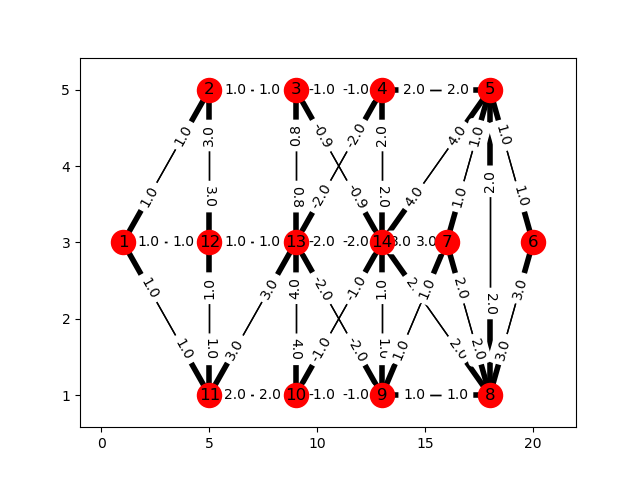
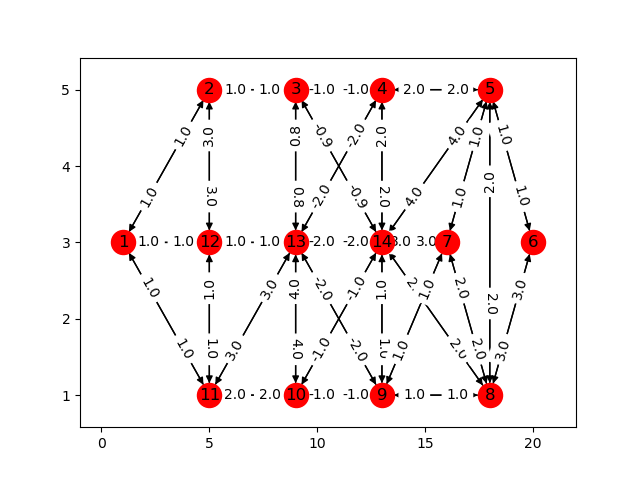
add some test examples

diff --git a/week_8/w_msr.py b/week_8/w_msr.py
@@ -16,36 +16,51 @@ def sign(num):
 
 
 def create_graph_by_adjacency_matrix(from_file, n, left_side):
-    
+
+    graph = nx.DiGraph()
+
+    for i in range(1, n + 1):
+        graph.add_node(i, value=[])
+
     matrix = np.identity(n)
     i = 0
     j = 0
-    
+    flag = True
     with open(from_file) as f:
         for line in f.readlines():
             tmp_input = line.strip('\n').split(' ')
             j = 0
+            print(tmp_input)
             for tmp in tmp_input:
-                matrix[i][j] = int(tmp)
+                if flag:
+                    graph.node[j + 1]['value'].append(float(tmp))
+                else:
+                    matrix[i][j] = int(tmp)
                 j += 1
-            i += 1
+            if not flag:
+                i += 1
+            flag = False
 
-    import robustness_checker
-    r,s = robustness_checker.determine_robustness_multi_process(matrix)
+    # import robustness_checker
+    # r,s = robustness_checker.determine_robustness_multi_process(matrix)
 
-    print(r, s)
+    # print(r, s)
 
-    
-    graph = nx.DiGraph()
-    for i in range(1, n + 1):
-        graph.add_node(i)
     for i in range(n):
         for j in range(n):
             if matrix[i][j] == 1:
-                graph.add_edge(i + 1, j + 1)
+                if i + 1 in left_side:
+                    if j + 1 in left_side:
+                        sign = 1
+                    else:
+                        sign = -1
+            else:
+                sign = 0
 
-    print(graph.nodes(data=True))
-    print(graph.edges(data=True))
+
+            if not graph.has_edge(i + 1, j + 1):
+                graph.add_edge(i + 1, j + 1, sign=sign)  # True 代表正， False代表负
+
     return graph
 
 
@@ -83,7 +98,7 @@ def get_limited_neighbors(node_no, graph, neighbors, time_step, cur_value, F):
     index = 0
     index_end = len(neighbor_values) - 1
     while index < F:
-        #if abs(neighbor_values[index_end]['value']) > abs(cur_value):
+        # if abs(neighbor_values[index_end]['value']) > abs(cur_value):
         if neighbor_values[index_end]['value'] > cur_value:
             index_end -= 1
             index += 1
@@ -169,7 +184,7 @@ def draw_graph(fg, name):
     nx.draw_networkx_edges(fg, pos)
     nx.draw_networkx_labels(fg, pos)
     nx.draw_networkx_edge_labels(
-        fg, pos, edge_labels=nx.get_edge_attributes(fg, 'weight'), label_pos=0.3)
+        fg, pos, edge_labels=nx.get_edge_attributes(fg, 'sign'), label_pos=0.3)
     plt.savefig("./pngs/graph_" + name + ".png")
     plt.show()
 
@@ -177,19 +192,51 @@ def draw_graph(fg, name):
 """
 领接矩阵每一行绝对值相加等于1，使得|A|是一个stochastic matrix
 """
+
+
 def w_msr():
-    graph = nx.from_numpy_matrix()
+    graph = create_graph_by_adjacency_matrix(
+        "./data/data_2_robust_7_7_nodes.in", 14, left_side=[1, 2, 12, 11, 3, 13, 10])
+
+    draw_graph(graph, "2_robust_7_7_nodes")
+    print(graph.edges(data=True))
+    for time_step in range(1000):
+        for i in graph.nodes():
+            # if i == 4:
+            #     if time_step == 1:
+            #         graph.node[i]['value'].append(graph.node[i]['value'][time_step] - 4)
+            #     else:
+            #         graph.node[i]['value'].append(graph.node[i]['value'][time_step] + 0.01)
+            #     continue
+            current_value = graph.node[i]['value'][time_step]
+            in_edges = graph.in_edges(i)
+
+            # print("in_edges:", in_edges)
+
+            in_neighbors = get_in_neighbors(i, in_edges)
+            delta = 0.0
+            weight = 1.0 / len(in_neighbors)
+            # print("neighbors:", in_neighbors)
+            for j in in_neighbors:
+                current_neighbor_value = graph.node[j]['value'][time_step]
+                sgn = graph[j][i]['sign']
+                print("sgn:", sgn)
+                delta += weight * (current_neighbor_value *
+                                   sign(sgn) - current_value)
+            final_result = current_value + 0.01 * delta
+            graph.node[i]['value'].append(final_result)
+
+    plt.xlabel("time-step")
+    plt.ylabel("values")
+
+    # print("shape" + str(len(graph.node[]['value'])))
+
+    x_axis = range(1001)
+    for i in graph.nodes():
+        plt.plot(x_axis, graph.node[i]['value'])
+    plt.savefig("./pngs/w_msr_2_robust_7_7_nodes.png")
+    plt.show()
+
 
 if __name__ == '__main__':
-    graph = create_graph_by_adjacency_matrix("./data/data_4_robust_7_7_nodes.in", 14, left_side=[0, 1,11,10,2,12,9])
-    # graph = nx.from_numpy_matrix(matrix)
-    # print(graph.edges(data=True))
-    # print(type(graph))
-    # draw_graph(graph, "3_robust_7_7_nodes")
-
-
-
-
-
-
-
+    w_msr()

diff --git a/week_7/resilient_bipartite_consensus.py b/week_7/resilient_bipartite_consensus.py
@@ -236,7 +236,7 @@ if __name__ == '__main__':
                                   fig_name="resilient_bipartite_consensus",
                                   malicious_node=1,
                                   attack_mode=0)
-    # modulus_consensus(data_path="./data/data_balanced_7_7_nodes.in",
-    #                   fig_path="./pngs",
-    #                   fig_name="modulus_consensus",
-    #                   graph_name="balanced_7_7_nodes")
+    modulus_consensus(data_path="./data/data_balanced_7_7_nodes.in",
+                      fig_path="./pngs",
+                      fig_name="modulus_consensus",
+                      graph_name="balanced_7_7_nodes")
